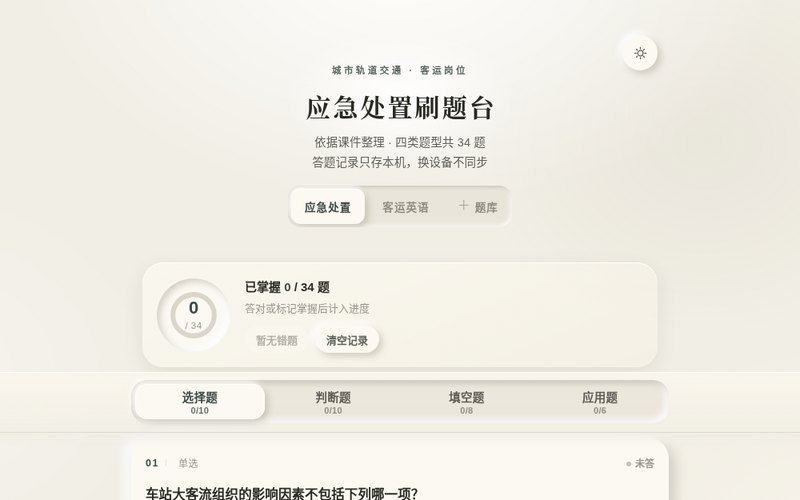
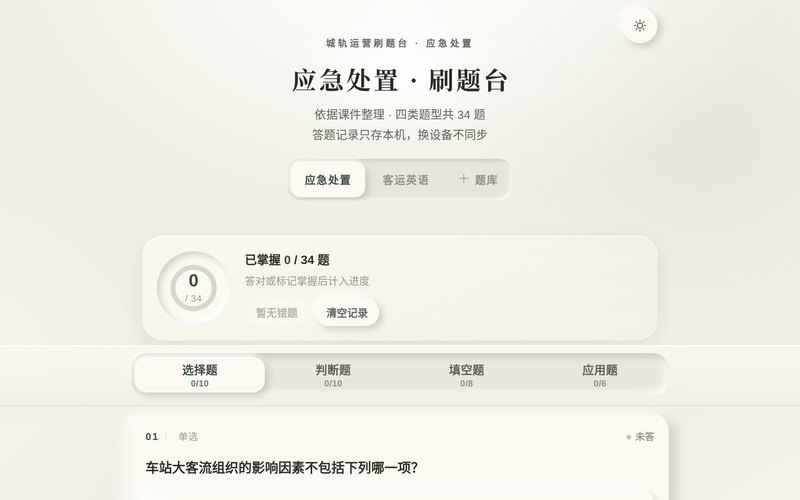
题库改名「城轨运营刷题台」，链接支持 ?bank= 直达指定题库
- 站点名与单科解绑：应急处置 / 客运英语 / 以后新增的科目都挂在同一站点下
- 切题库自动同步地址栏，复制 URL 即分享当前科目；非法参数回落默认库
- 门面卡与封面图同步更新（原封面印着旧名字）
- START_HERE 项目表口径同步

diff --git a/quiz/index.html b/quiz/index.html
@@ -3,8 +3,8 @@
 <head>
 <meta charset="utf-8">
 <meta content="width=device-width, initial-scale=1, viewport-fit=cover" name="viewport">
-<title>应急处置刷题台 · 选择题 / 判断题 / 填空题 / 应用题</title>
-<meta content="城市轨道交通应急处置练习：选择题、判断题、填空题、应用题四类题型，34 道题，进度保存在本机。" name="description">
+<title>城轨运营刷题台 · 多科目题库练习</title>
+<meta content="城市轨道交通运营管理多科目题库：应急处置、客运英语，四类题型即时判分、错题重做，支持粘贴文本自建题库，进度只存本机。" name="description">
 <meta content="#F1EEE5" name="theme-color">
 <script>
 /* 主题在解析 CSS 之前定好，避免先闪一下浅色/深色。默认浅色（宣纸），用户点过才记 */
@@ -694,8 +694,8 @@ body::before{
       <svg aria-hidden="true" class="i-sun" viewBox="0 0 24 24"><circle cx="12" cy="12" r="4.2"/><path d="M12 3.2v2M12 18.8v2M3.2 12h2M18.8 12h2M5.8 5.8l1.4 1.4M16.8 16.8l1.4 1.4M18.2 5.8l-1.4 1.4M7.2 16.8l-1.4 1.4"/></svg>
       <svg aria-hidden="true" class="i-moon" viewBox="0 0 24 24"><path d="M20 14.4A8.2 8.2 0 0 1 9.6 4a8.4 8.4 0 1 0 10.4 10.4z"/></svg>
     </button>
-    <p class="kicker" id="kicker">城市轨道交通 · 客运岗位</p>
-    <h1 id="pageTitle">应急处置刷题台</h1>
+    <p class="kicker" id="kicker">城轨运营刷题台 · 应急处置</p>
+    <h1 id="pageTitle">应急处置 · 刷题台</h1>
     <p class="sub" id="subText">依据课件整理 · 四类题型共 <b id="totalA">34</b> 题<br>答题记录只存本机，换设备不同步</p>
     <nav aria-label="题库切换" class="banks" id="bankNav" role="tablist"></nav>
   </header>
@@ -814,8 +814,8 @@ body::before{
    ============================================================ */
 var BANK_YINGJI = {
   id:'yingji', name:'应急处置', lang:'zh',
-  kicker:'城市轨道交通 · 客运岗位',
-  title:'应急处置刷题台',
+  kicker:'城轨运营刷题台 · 应急处置',
+  title:'应急处置 · 刷题台',
   sub:'依据课件整理 · 四类题型共 <b id="totalA">34</b> 题<br>答题记录只存本机，换设备不同步',
   foot:'题目与答案要点依据课件《应急处置》整理，现场处置以本单位现行预案为准',
   srcLabel:'课件依据',
@@ -1022,8 +1022,8 @@ var BANK_YINGJI = {
    ============================================================ */
 var BANK_ENGLISH = {
   id:'english', name:'客运英语', lang:'en', storeKey:'english_2026',
-  kicker:'城市轨道交通 · 客运服务英语',
-  title:'客运英语口语题库',
+  kicker:'城轨运营刷题台 · 客运英语',
+  title:'客运英语 · 刷题台',
   sub:'术语填空 · 单项选择 · 英译中 · 中译英<br>共 <b id="totalA">34</b> 题，答题记录只存本机',
   foot:'题库依据《城市轨道交通客运服务英语口语》整理，译文供对照参考',
   srcLabel:'出处',
@@ -1971,7 +1971,7 @@ function applyBankMeta(){
   document.getElementById('pageTitle').textContent = b.title;
   document.getElementById('subText').innerHTML = b.sub;
   document.getElementById('footText').textContent = b.foot;
-  document.title = b.title;
+  document.title = b.name + ' · 城轨运营刷题台';
   syncBankNav();
   syncTabs();
 }
@@ -2011,6 +2011,19 @@ function switchBank(id){
   cur = firstTabWithItems();
   setTab(cur, false);
   window.scrollTo(0, 0);
+  syncUrlBank(id);
+}
+
+/* 把当前题库写进地址栏：复制链接就是分享这套题。
+   自建题库只存在本机，别人打开会落到默认题库，这是预期行为。 */
+function syncUrlBank(id){
+  try{
+    if(!window.history || !history.replaceState) return;
+    var u = new URL(location.href);
+    if(id === 'yingji'){ u.searchParams.delete('bank'); }
+    else{ u.searchParams.set('bank', id); }
+    history.replaceState(null, '', u.href);
+  }catch(e){}
 }
 
 /* ---------- 全量重绘（不重建 DOM，只刷状态） ---------- */
@@ -2673,6 +2686,16 @@ document.addEventListener('keydown', function(e){
     if(legacy && !localStorage.getItem(KEY_BASE + '::yingji')){
       localStorage.setItem(KEY_BASE + '::yingji', legacy);
       localStorage.removeItem(KEY_BASE);
+    }
+  }catch(e){}
+  /* 分享链接可带 ?bank=english，直接落到指定题库；参数无效或指向别人本机的自建题库时保持默认 */
+  try{
+    var want = new URLSearchParams(location.search).get('bank');
+    if(want && BANKS[want] && want !== bank){
+      bank = want;
+      Q = BANKS[bank].q;
+      TOTAL = countQ(Q);
+      KEY = KEY_BASE + '::' + (BANKS[bank].storeKey || bank);
     }
   }catch(e){}
   applyTheme(currentTheme(), false);

diff --git a/index.html b/index.html
@@ -121,9 +121,9 @@ footer{margin-top:24px;font-size:11px;color:var(--sub);text-align:center}
   </a>
 
   <a class="card" href="./quiz/">
-    <img class="cover" src="./screenshots/quiz.jpg" alt="应急处置刷题台截图" loading="lazy">
-    <div class="card-hd"><span class="seal">题</span><span class="t">应急处置 · 刷题台</span><span class="go">进入 ›</span></div>
-    <div class="d">四类题型 68 题 · 即时判分与解析 · 错题重做 · 进度存本机 · 粘贴文本即成题库</div>
+    <img class="cover" src="./screenshots/quiz.jpg" alt="城轨运营刷题台截图" loading="lazy">
+    <div class="card-hd"><span class="seal">题</span><span class="t">城轨运营 · 刷题台</span><span class="go">进入 ›</span></div>
+    <div class="d">应急处置 + 客运英语 68 题 · 即时判分解析 · 错题重做 · 粘贴文本自建题库</div>
     <div class="tags"><span class="tag">学习工具</span><span class="tag">纯前端</span><span class="tag">零依赖</span></div>
   </a>
 

diff --git a/开工包/START_HERE.md b/开工包/START_HERE.md
@@ -17,7 +17,7 @@
 | `tpl-b/index.html` | **模板B · 多页应用**——要登录/后台/多人数据的站从这里复制（已含搜索筛选交互） |
 | `ai-tools-nav/index.html` | AI 工具导航站（40 工具，搜索/筛选/收藏，纯静态案例） |
 | `interactive-lab/index.html` | **交互实验室**——86 项交互效果全部可在卡片内直接跑（做动效前先来这里挑） |
-| `quiz/index.html` | **应急处置刷题台**——四类题型即时判分 + 解析 + 错题重做 + 进度存本机；粘贴纯文本可自动识别成新题库（多题库案例） |
+| `quiz/index.html` | **城轨运营刷题台**——多科目题库（现含应急处置、客运英语）；四类题型即时判分 + 解析 + 错题重做 + 进度存本机；粘贴纯文本可自动识别成新题库，链接带 `?bank=` 可直达指定题库 |
 | `lanting-assoc/index.html` | 兰亭书画协会页（真实协会案例，11 位名家介绍） |
 | `jingmo/index.html` | 竞墨——真实赛事系统案例（Node零依赖） |
 | `lanting-xinyou/`、`ziliao-tpl/` | 其他真实案例，可参考 |
